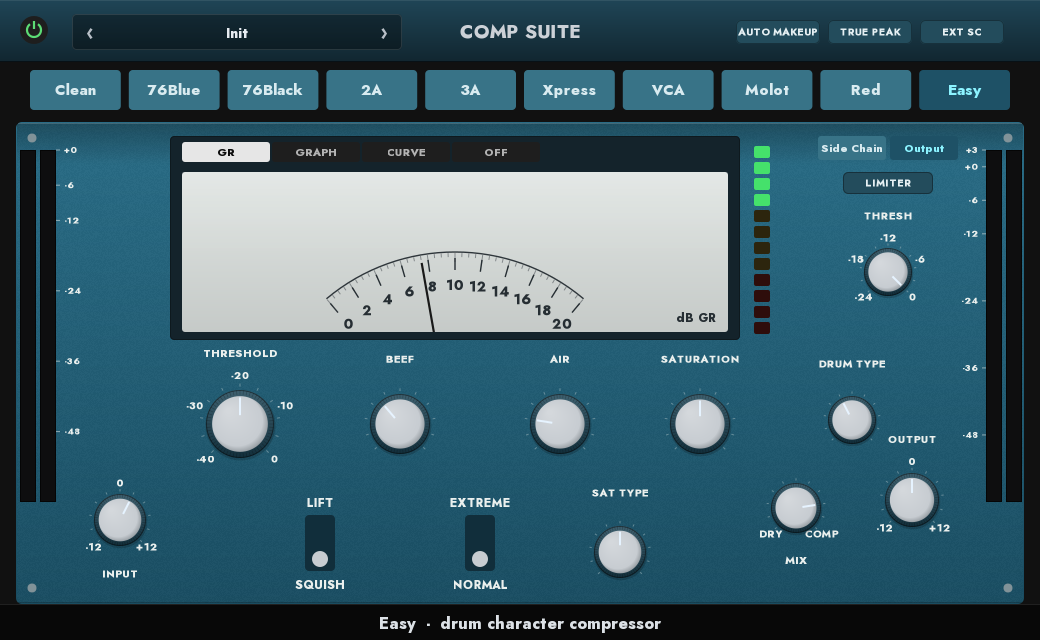
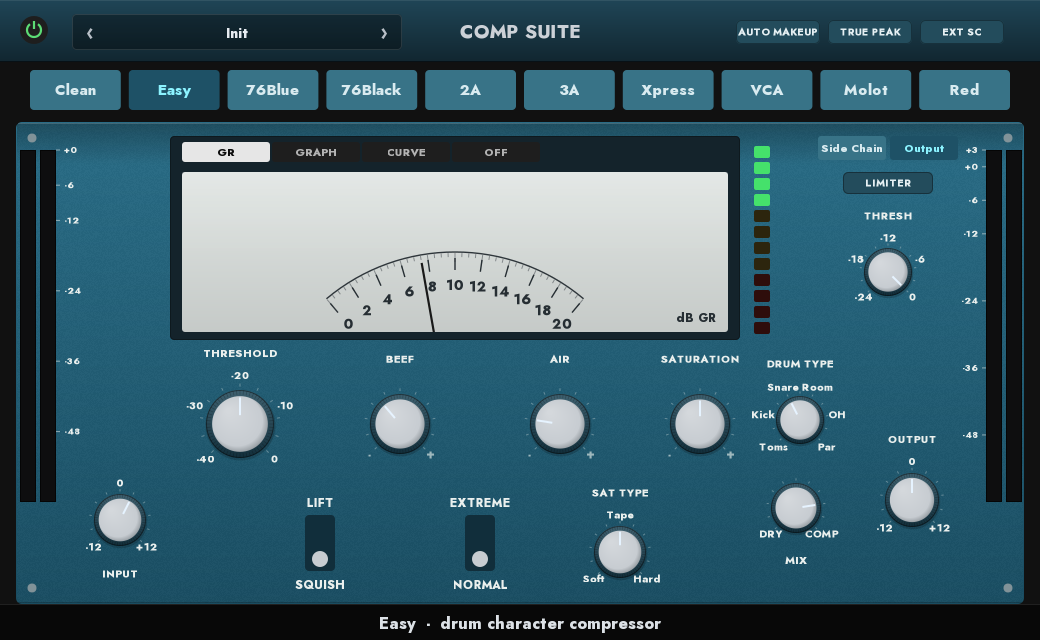
Easy: labelled scales, wider legend ring, tab order
- Drum Type and Saturation Type now carry scale legends; Molot's Stereo Mode
  does too.
- Continuous knobs without a scale draw a - and + at the ends of travel, so the
  direction is obvious without a manual.
- A knob can override its legend ring radius; Drum Type uses a slightly wider
  ring so Snare and Room do not touch at the top of the arc.
- Easy now sits between Clean and 76Blue in the tab order.

Not pushed.

diff --git a/src/ui/panel.cpp b/src/ui/panel.cpp
@@ -194,6 +194,11 @@ const char* const kScaleRatio[] = {"1.5", "2", "3", "4", "6", "8", "12", "20", "
 const char* const kScaleRatioNoAll[] = {"1.5", "2", "3", "4", "6", "8", "12", "20"};
 // The Red only has six ratios; the shared ladder snaps to the nearest.
 const char* const kScaleRatioRed[] = {"1.5", "2", "3", "5", "7", "10"};
+const char* const kScaleDrumType[] = {"Toms", "Kick", "Snare",
+                                      "Room", "OH",   "Par"};
+const char* const kScaleSatType[] = {"Soft", "Tape", "Hard"};
+const char* const kScaleStereo[] = {"Mono", "Dual", "M",
+                                    "S",    "M/S",  "St"};
 const char* const kScaleMakeupVca[] = {"-10", "-5", "0", "+5", "+10"};
 const char* const kScaleAttackVca[] = {"0.1", "0.4", "1.7", "7", "30"};
 const char* const kScaleReleaseVca[] = {"0.1", "0.2", "0.3", "0.6", "1.2"};
@@ -412,7 +417,7 @@ void Panel::layout(const Shared& shared, const PanelState& state) {
   static const char* kTabNames[10] = {"76Blue", "76Black", "2A",    "3A",
                                       "Xpress", "VCA",     "Clean", "Molot",
                                       "Red",    "Easy"};
-  static const int kTabOrder[10] = {6, 0, 1, 2, 3, 4, 5, 7, 8, 9};
+  static const int kTabOrder[10] = {6, 9, 0, 1, 2, 3, 4, 5, 7, 8};
   const int tabCount = static_cast<int>(comp::Model::Count);
   const double tabW = (980.0 - (tabCount - 1) * 8.0) / tabCount;
   for (int i = 0; i < tabCount; ++i) {
@@ -454,7 +459,7 @@ void Panel::layout(const Shared& shared, const PanelState& state) {
 
   auto knob = [&](uint32_t param, double x, double y, double r, const char* label,
                   std::vector<const char*> scale, bool below = false,
-                  int steps = 0) {
+                  int steps = 0, double scaleRadius = 1.44) {
     Widget k{};
     k.kind = Kind::Knob;
     k.param = param;
@@ -462,6 +467,7 @@ void Panel::layout(const Shared& shared, const PanelState& state) {
     k.y = y;
     k.r = r;
     k.steps = steps;
+    k.scaleRadius = scaleRadius;
     k.label = label;
     k.scale = std::move(scale);
     k.labelBelow = below;
@@ -561,8 +567,9 @@ void Panel::layout(const Shared& shared, const PanelState& state) {
       knob(P_BEEF, 400, 424, 30, "BEEF", {});
       knob(P_AIR, 560, 424, 30, "AIR", {});
       knob(P_SAT_DRIVE, 700, 424, 30, "SATURATION", {});
-      knob(P_DRUM_TYPE, 852, 420, 24, "DRUM TYPE", {});
-      knob(P_SAT_TYPE, 620, 552, 26, "SAT TYPE", {});
+      knob(P_DRUM_TYPE, 800, 420, 24, "DRUM TYPE", sc(kScaleDrumType), false,
+           0, 1.56);
+      knob(P_SAT_TYPE, 620, 552, 26, "SAT TYPE", sc(kScaleSatType));
       knob(P_INPUT, 120, 520, 26, "INPUT", sc(kScaleOutputGeneric), true);
       knob(P_MIX, 796, 508, 25, "MIX", sc(kScaleMix), true);
       knob(P_OUTPUT, 912, 500, 27, "OUTPUT", sc(kScaleOutputGeneric));
@@ -603,7 +610,7 @@ void Panel::layout(const Shared& shared, const PanelState& state) {
       } else {
         toggle(P_DISTORTION, 830, 380, 1.0, "SAT", "OFF");
         toggle(P_ATTACK_MODE, 888, 380, 1.0, "SIGMA", "ALPHA");
-        knob(P_STEREO_MODE, 888, 530, 22, "STEREO", {});
+        knob(P_STEREO_MODE, 888, 530, 22, "STEREO", sc(kScaleStereo));
       }
       break;
     }
@@ -1576,13 +1583,26 @@ void Panel::drawKnob(cairo_t* cr, const Widget& w, double value, int model) cons
     cairo_stroke(cr);
   }
 
+  // Continuous controls with no scale get direction marks.
+  const ParamSpec& paramSpec = kParamSpecs[w.param];
+  if (w.scale.empty() && !paramSpec.stepped) {
+    const double a0 = knobAngle(0.0);
+    const double a1 = knobAngle(1.0);
+    text(cr, "-", cx + std::cos(a0) * (r * 1.44),
+         cy + std::sin(a0) * (r * 1.44) + 4, 12, 1, skin.legendDim.r,
+         skin.legendDim.g, skin.legendDim.b);
+    text(cr, "+", cx + std::cos(a1) * (r * 1.44),
+         cy + std::sin(a1) * (r * 1.44) + 4, 12, 1, skin.legendDim.r,
+         skin.legendDim.g, skin.legendDim.b);
+  }
+
   // Scale legends.
   const size_t n = w.scale.size();
   for (size_t i = 0; i < n; ++i) {
     const double f = n > 1 ? static_cast<double>(i) / (n - 1) : 0.0;
     const double a = knobAngle(f);
-    const double lx = cx + std::cos(a) * (r * 1.44);
-    const double ly = cy + std::sin(a) * (r * 1.44);
+    const double lx = cx + std::cos(a) * (r * w.scaleRadius);
+    const double ly = cy + std::sin(a) * (r * w.scaleRadius);
     text(cr, w.scale[i], lx, ly + 4, 10.5, 1, skin.legend.r, skin.legend.g,
          skin.legend.b);
   }

diff --git a/src/ui/panel.hpp b/src/ui/panel.hpp
@@ -107,6 +107,7 @@ private:
     double h = 0.0;
     double r = 0.0;       // knob radius
     int steps = 0;        // 0 = use the parameter's range; else N positions
+    double scaleRadius = 1.44;  // legend ring, as a multiple of the radius
     const char* label = "";
     std::vector<const char*> scale;
     bool labelBelow = false;

diff --git a/CHANGELOG.md b/CHANGELOG.md
@@ -14,6 +14,11 @@
     **Saturation** with Soft / Tape / Hard flavours.
   - Normal/Extreme intensity, link control, parallel mix.
 - Four Easy presets: Squish Drums, Lift Drums, Room Glue, Parallel Squish.
+- Easy sits directly after Clean in the tab order, so a new user meets it before
+  the model-specific units.
+- Scale legends on Drum Type, Saturation Type and Molot's Stereo Mode; any
+  continuous unlabelled knob now shows a **-** and **+** at the ends of its
+  travel.
 
 ### Notes
 
